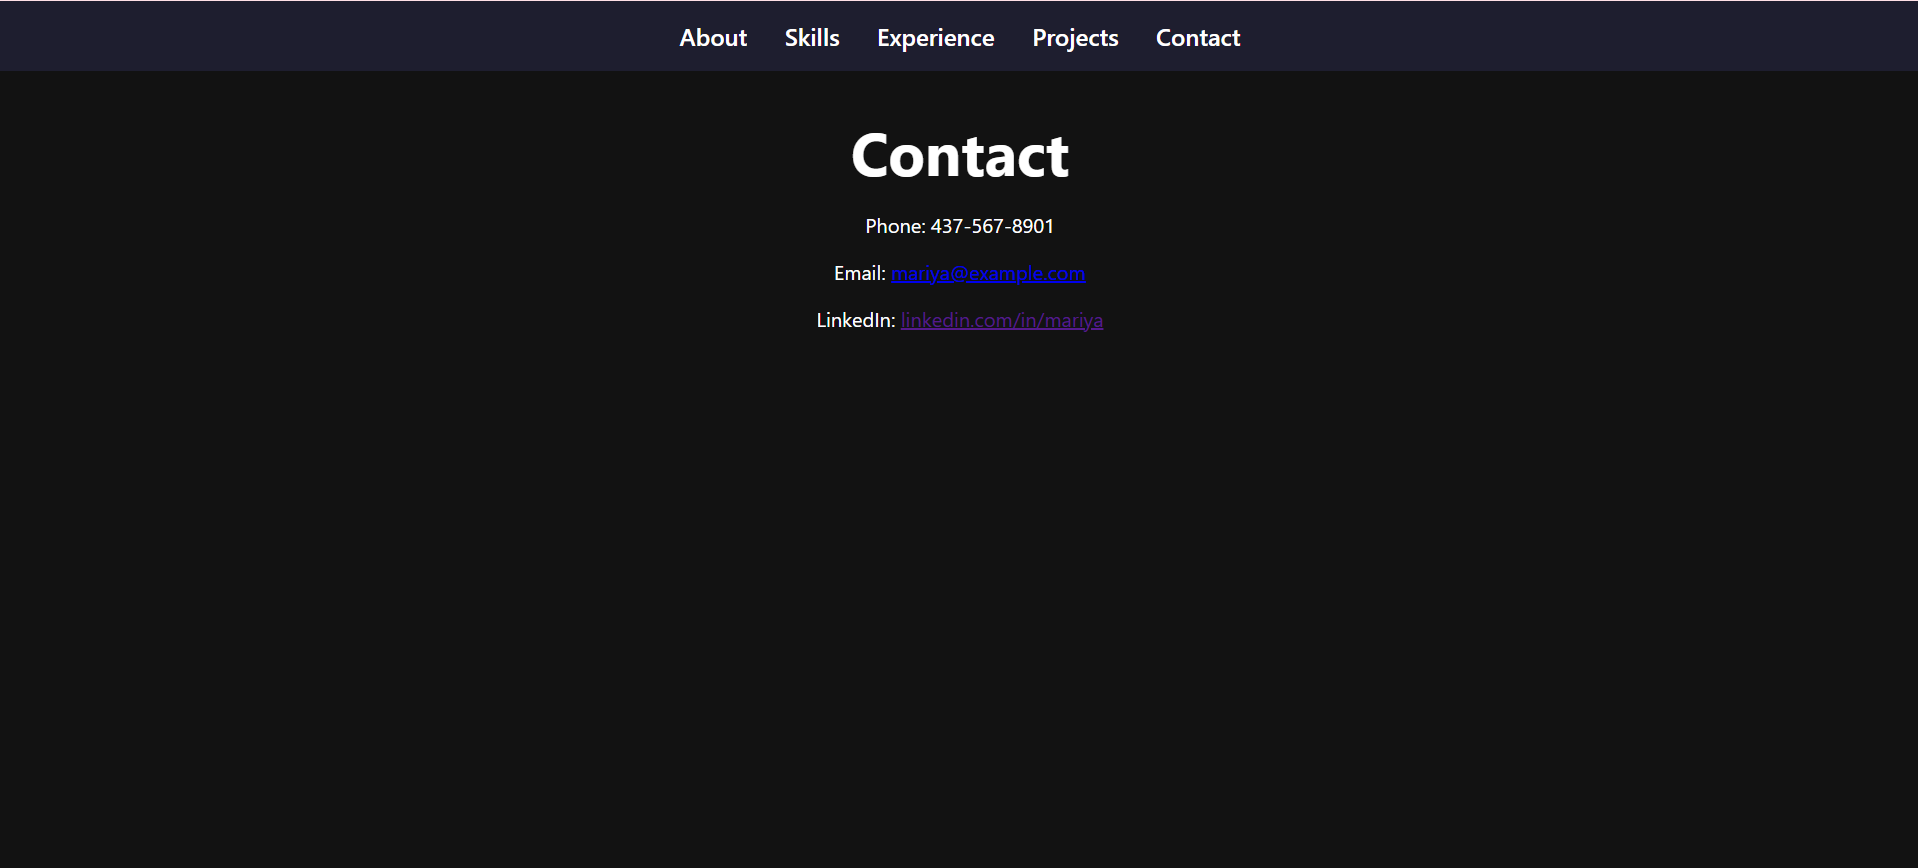
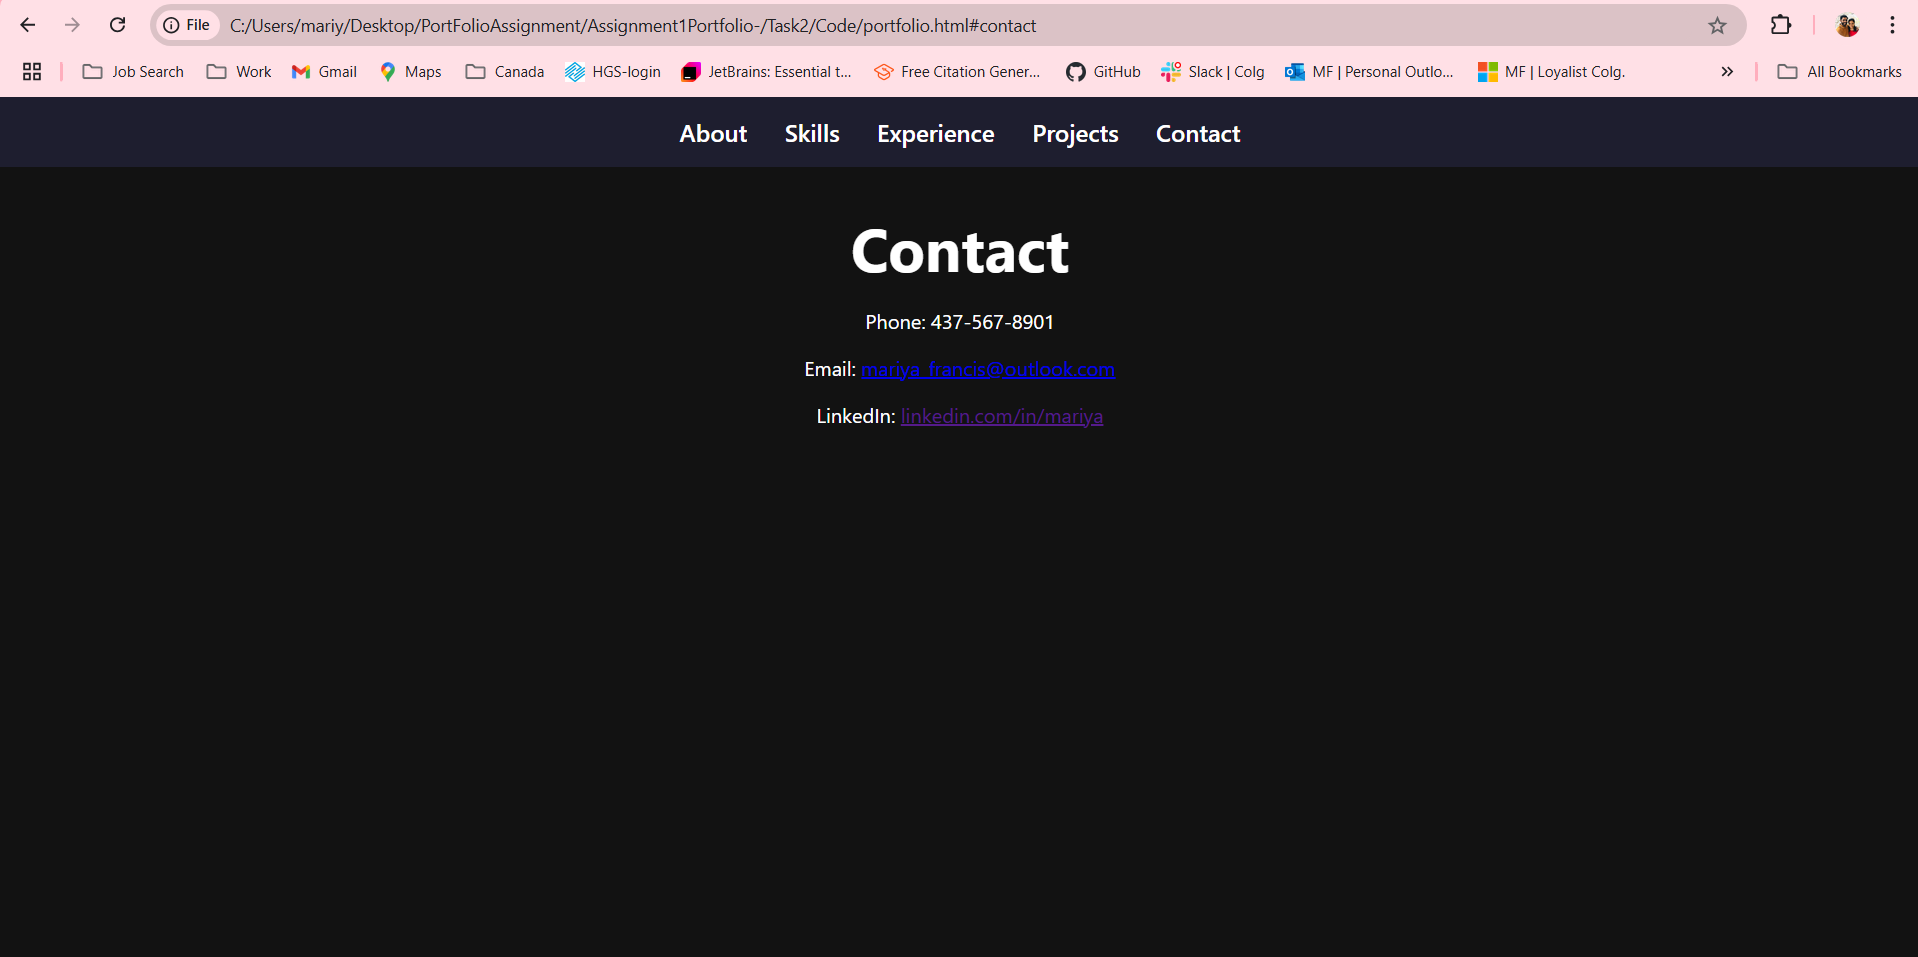
Task2 correction

Changed region(s): [[0.0, 0.0, 1.0, 0.4666]]

diff --git a/Task2/Code/portfolio.html b/Task2/Code/portfolio.html
@@ -108,7 +108,7 @@
         </div>
         <div class="contact-details">
             <p>Phone: 437-567-8901</p>
-            <p>Email: <a href="mailto:mariya_francis@outlook.com">mariya@example.com</a></p>
+            <p>Email: <a href="mailto:mariya_francis@outlook.com">mariya_francis@outlook.com</a></p>
             <p>LinkedIn: <a href="https://www.linkedin.com/in/mariyafrancis/" target="_blank">linkedin.com/in/mariya</a></p>
         </div>
     </div>
